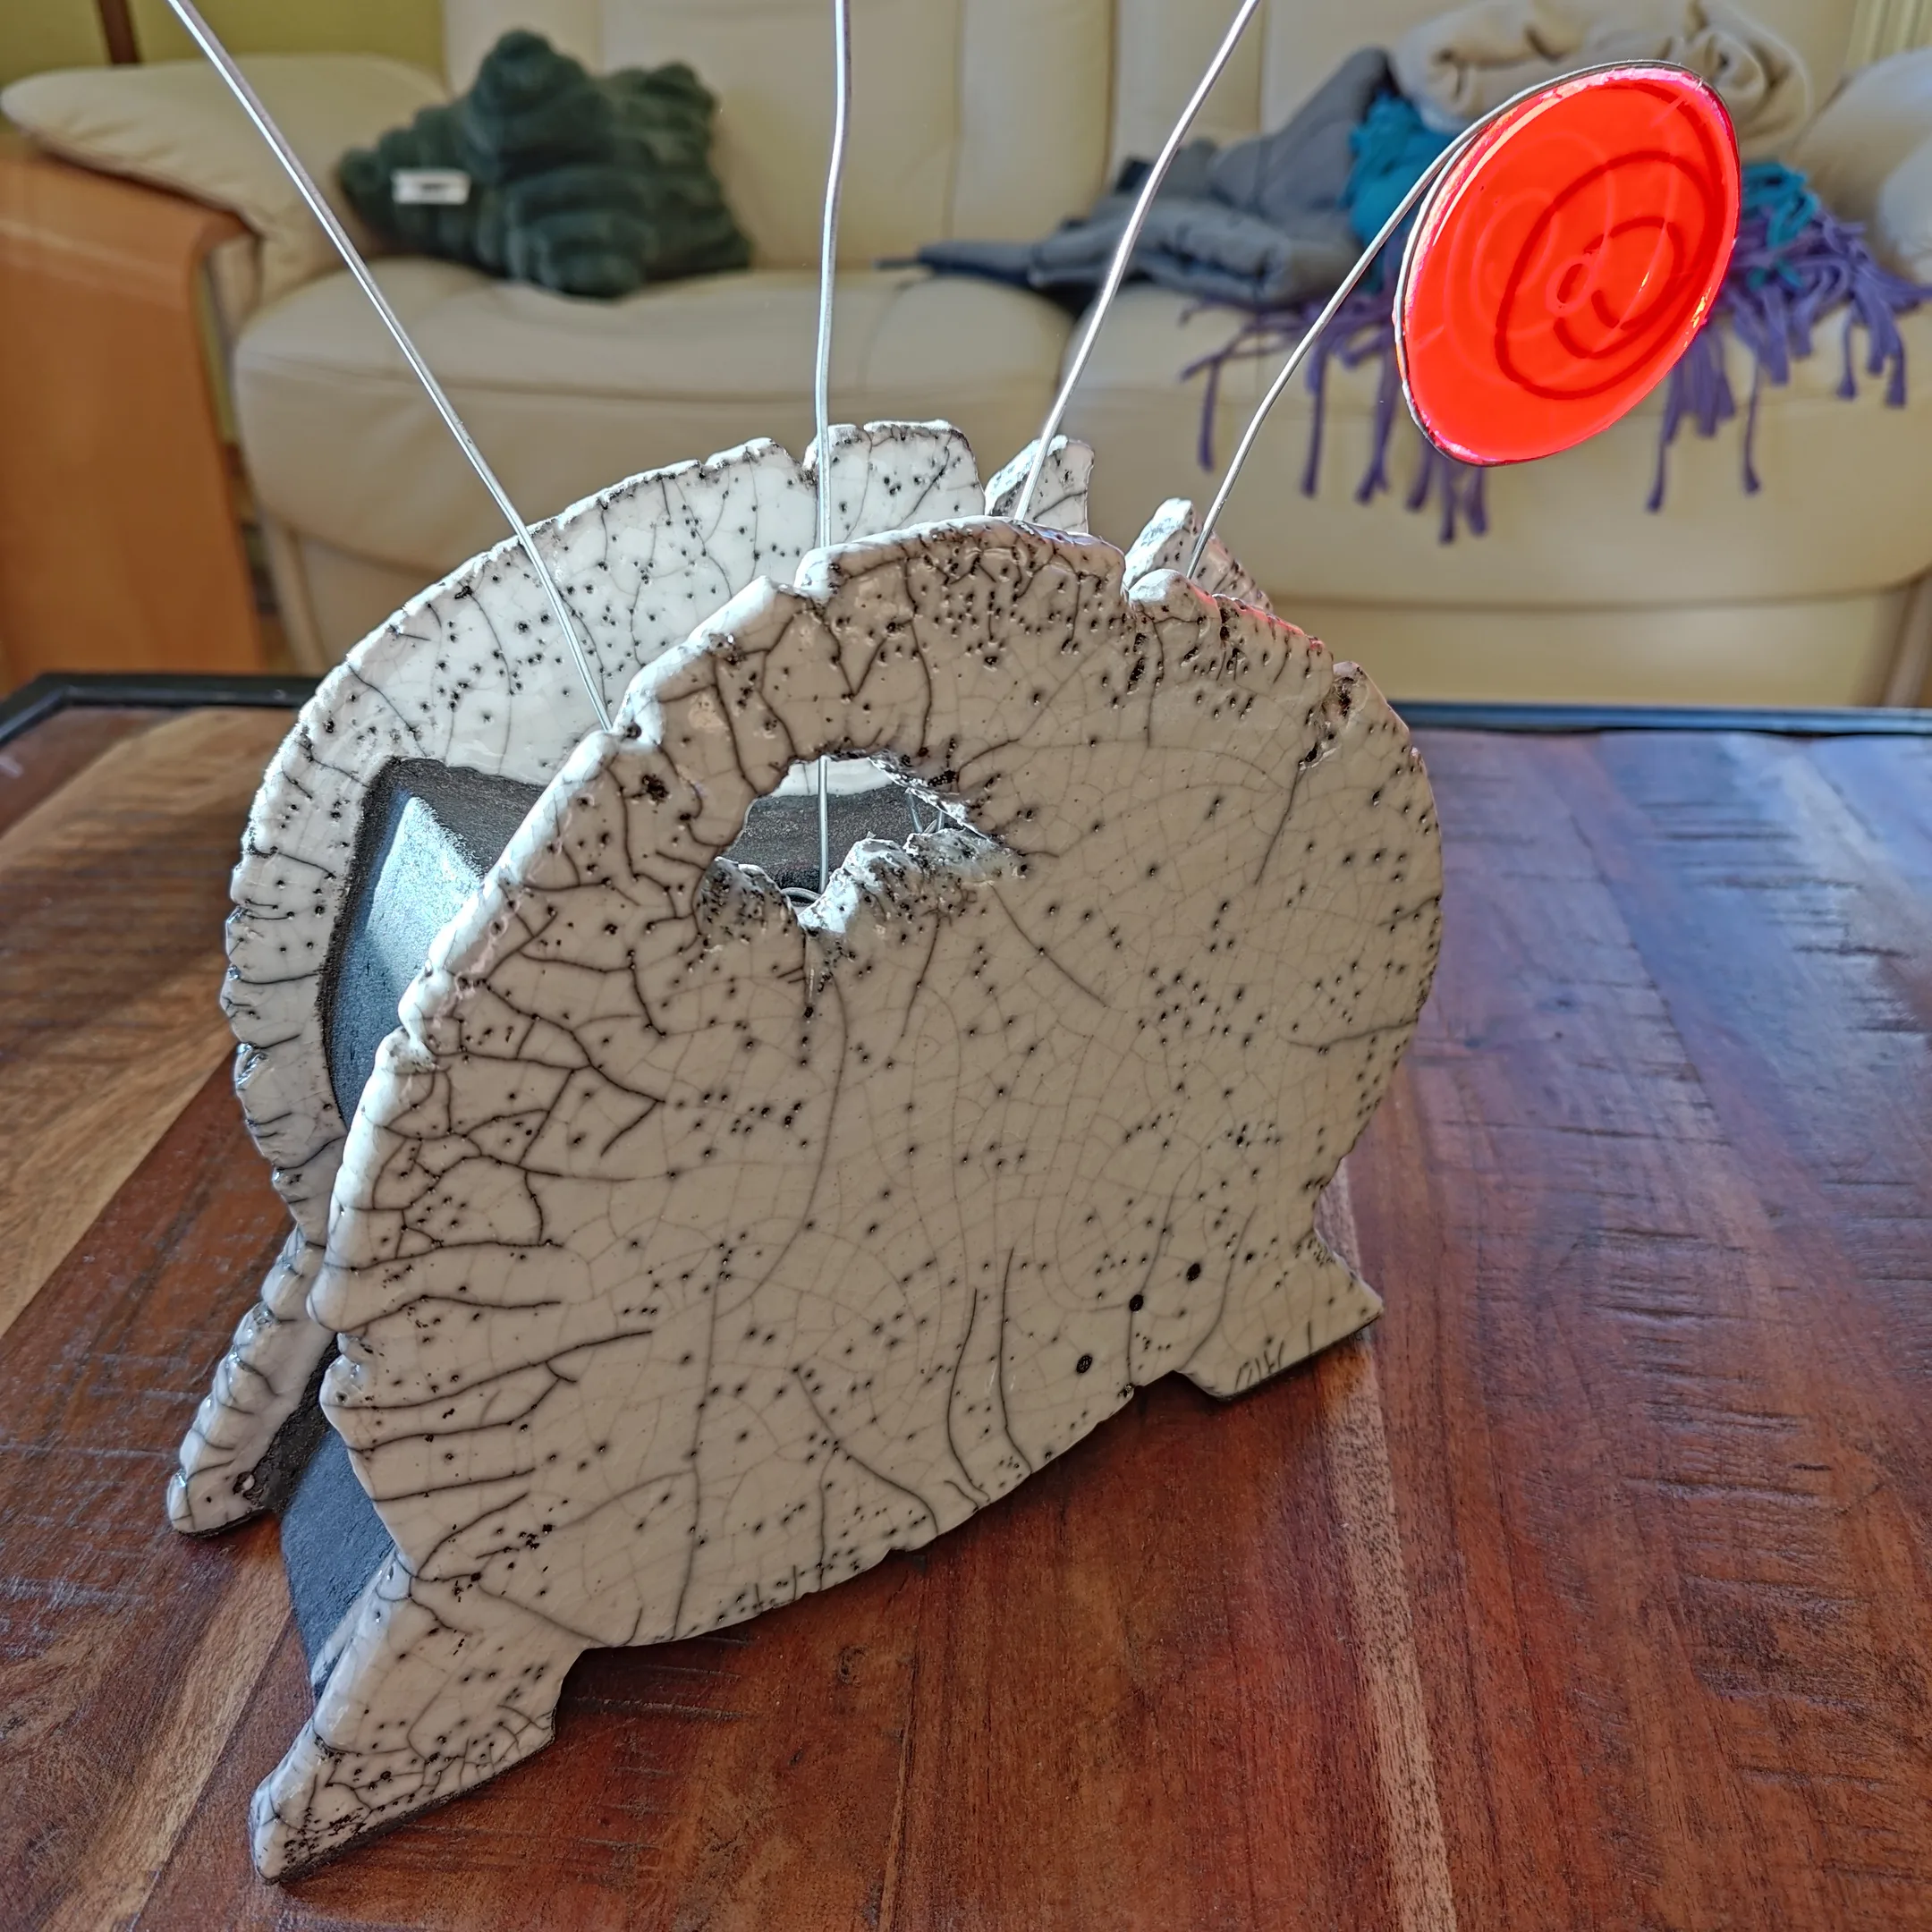
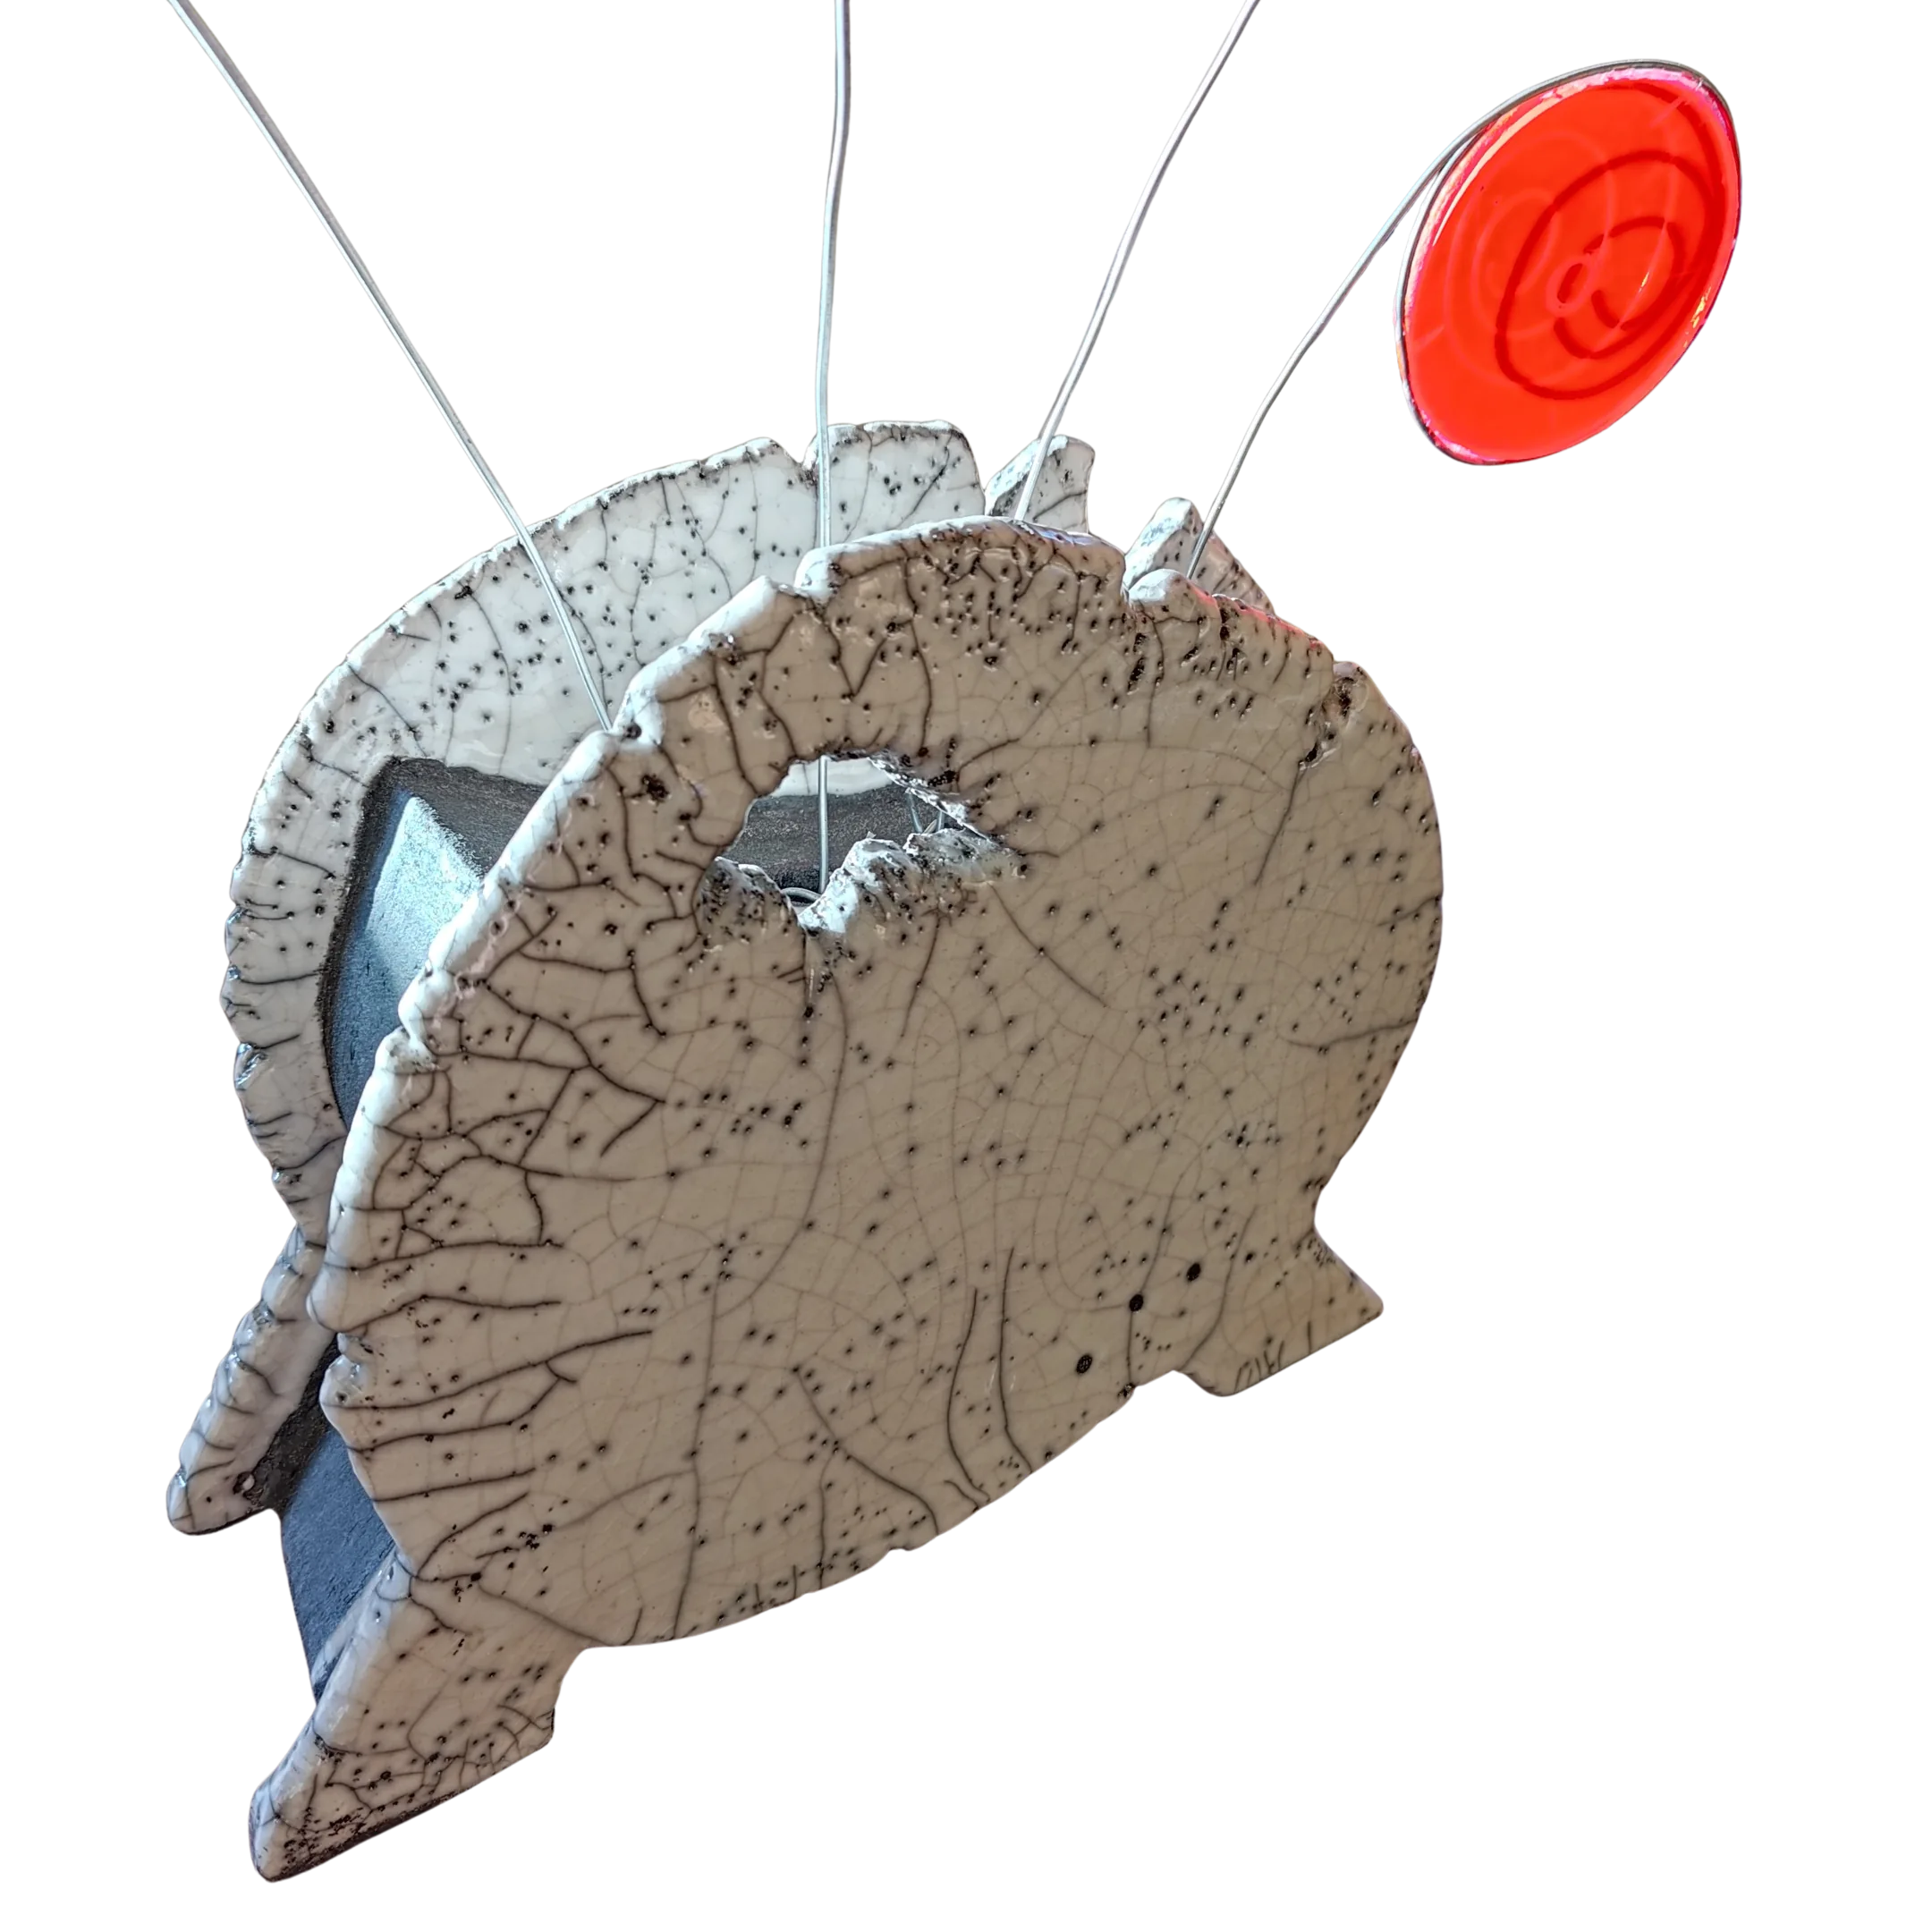
transparent image

diff --git a/art/d/astrobloom/astrobloom.html b/art/d/astrobloom/astrobloom.html
@@ -322,13 +322,13 @@
 
     <section class="viewer" id="viewer" title="Klick wechselt das Bild">
         <div class="frame active">
-            <img src="P_20260501_190841_2160.webp" alt="Astrobloom – die Astrobionik-Skulptur im Raum" />
+            <img src="P_20260501_190841_2160.webp" alt="Astrobloom – die vollständige Astrobionik-Skulptur: erblühte rote Acrylglas-Scheiben an silbernen Metalldrähten über der rissigen Krakelee-Keramikbasis" />
         </div>
         <div class="frame">
-            <img src="P_20260501_190956_2160.webp" alt="Astrobloom – die rissige Regolith-Basis aus Krakelee-Keramik" />
+            <img src="P_20260501_190938_2160.webp" alt="Astrobloom – Nahansicht einer großen roten Acrylglas-Blüte mit Metallspirale über der Regolith-Keramikbasis" />
         </div>
         <div class="frame">
-            <img src="astrobloom_2160.webp" alt="Astrobloom – Detail einer erblühten roten Acrylglas-Scheibe mit Metallspirale" />
+            <img src="P_20260501_190956_2160.webp" alt="Astrobloom – die rissige Regolith-Keramikbasis mit aufragenden Metalldraht-Antennen und einer roten Acrylglas-Blüte" />
         </div>
 
         <div class="controls" id="controls">